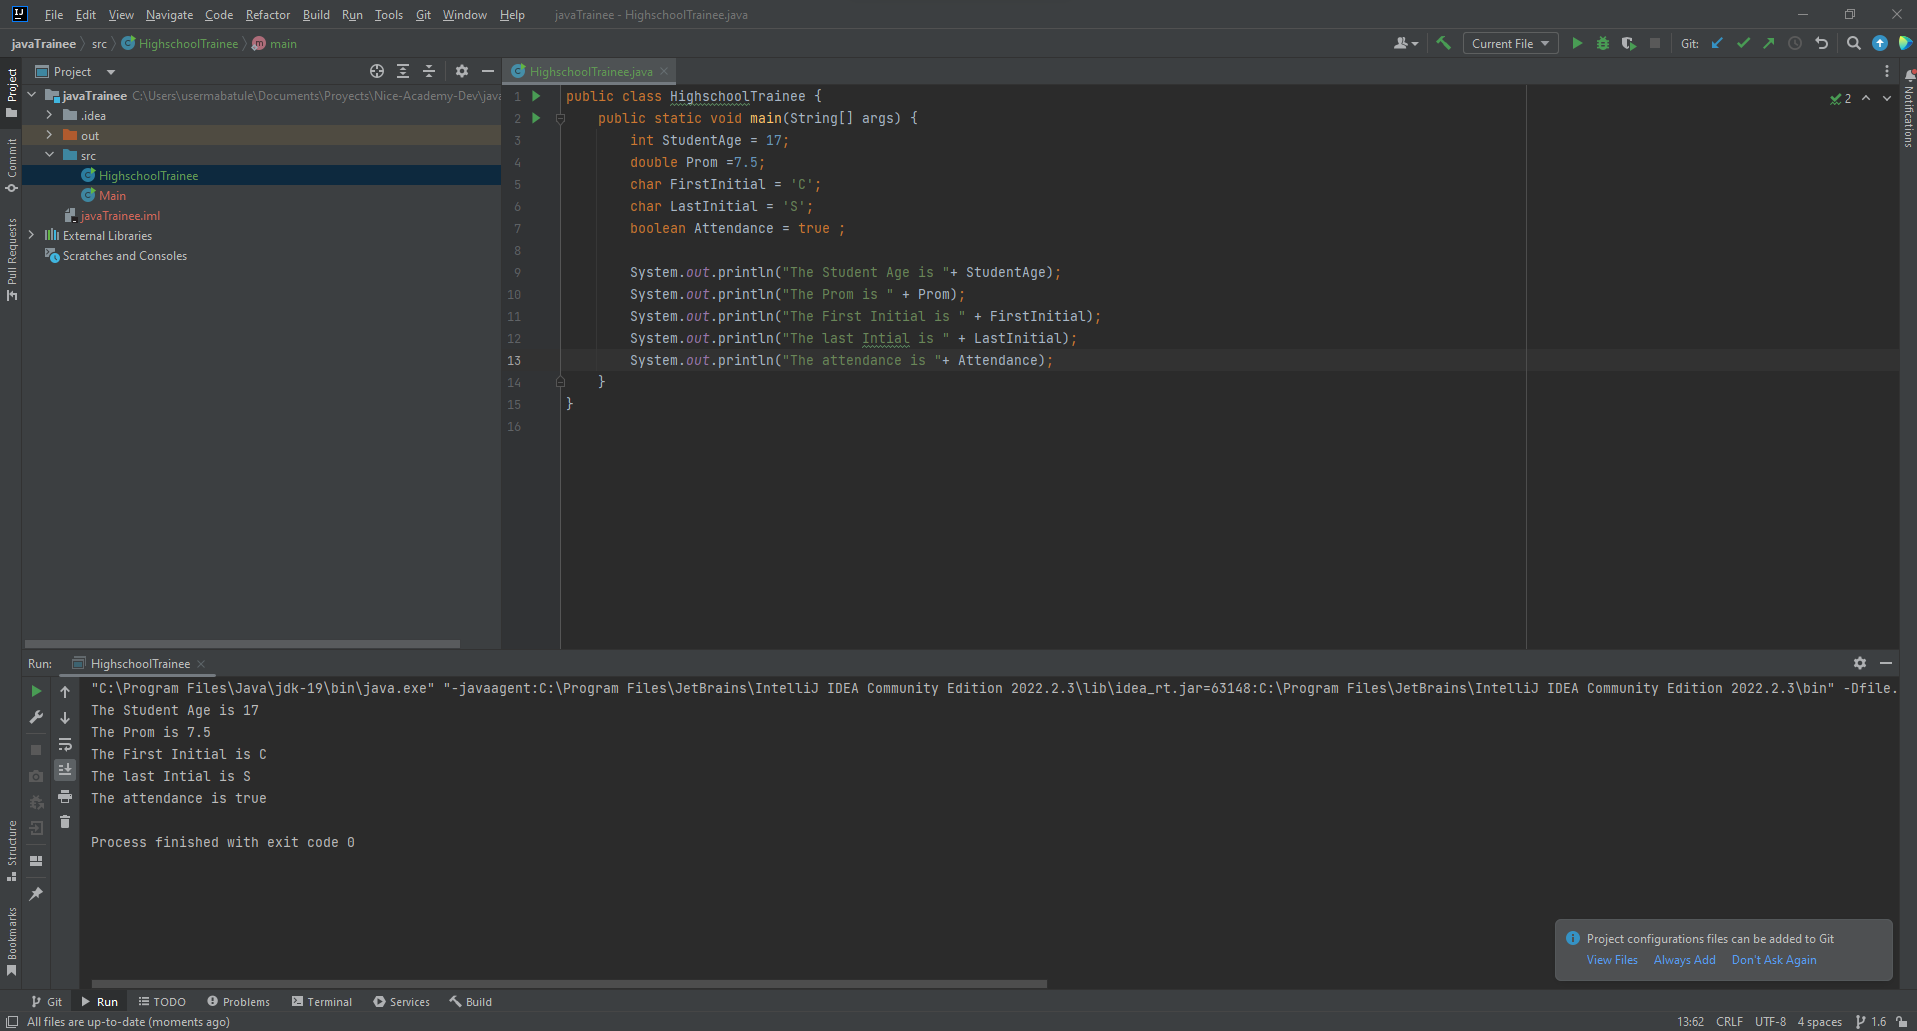
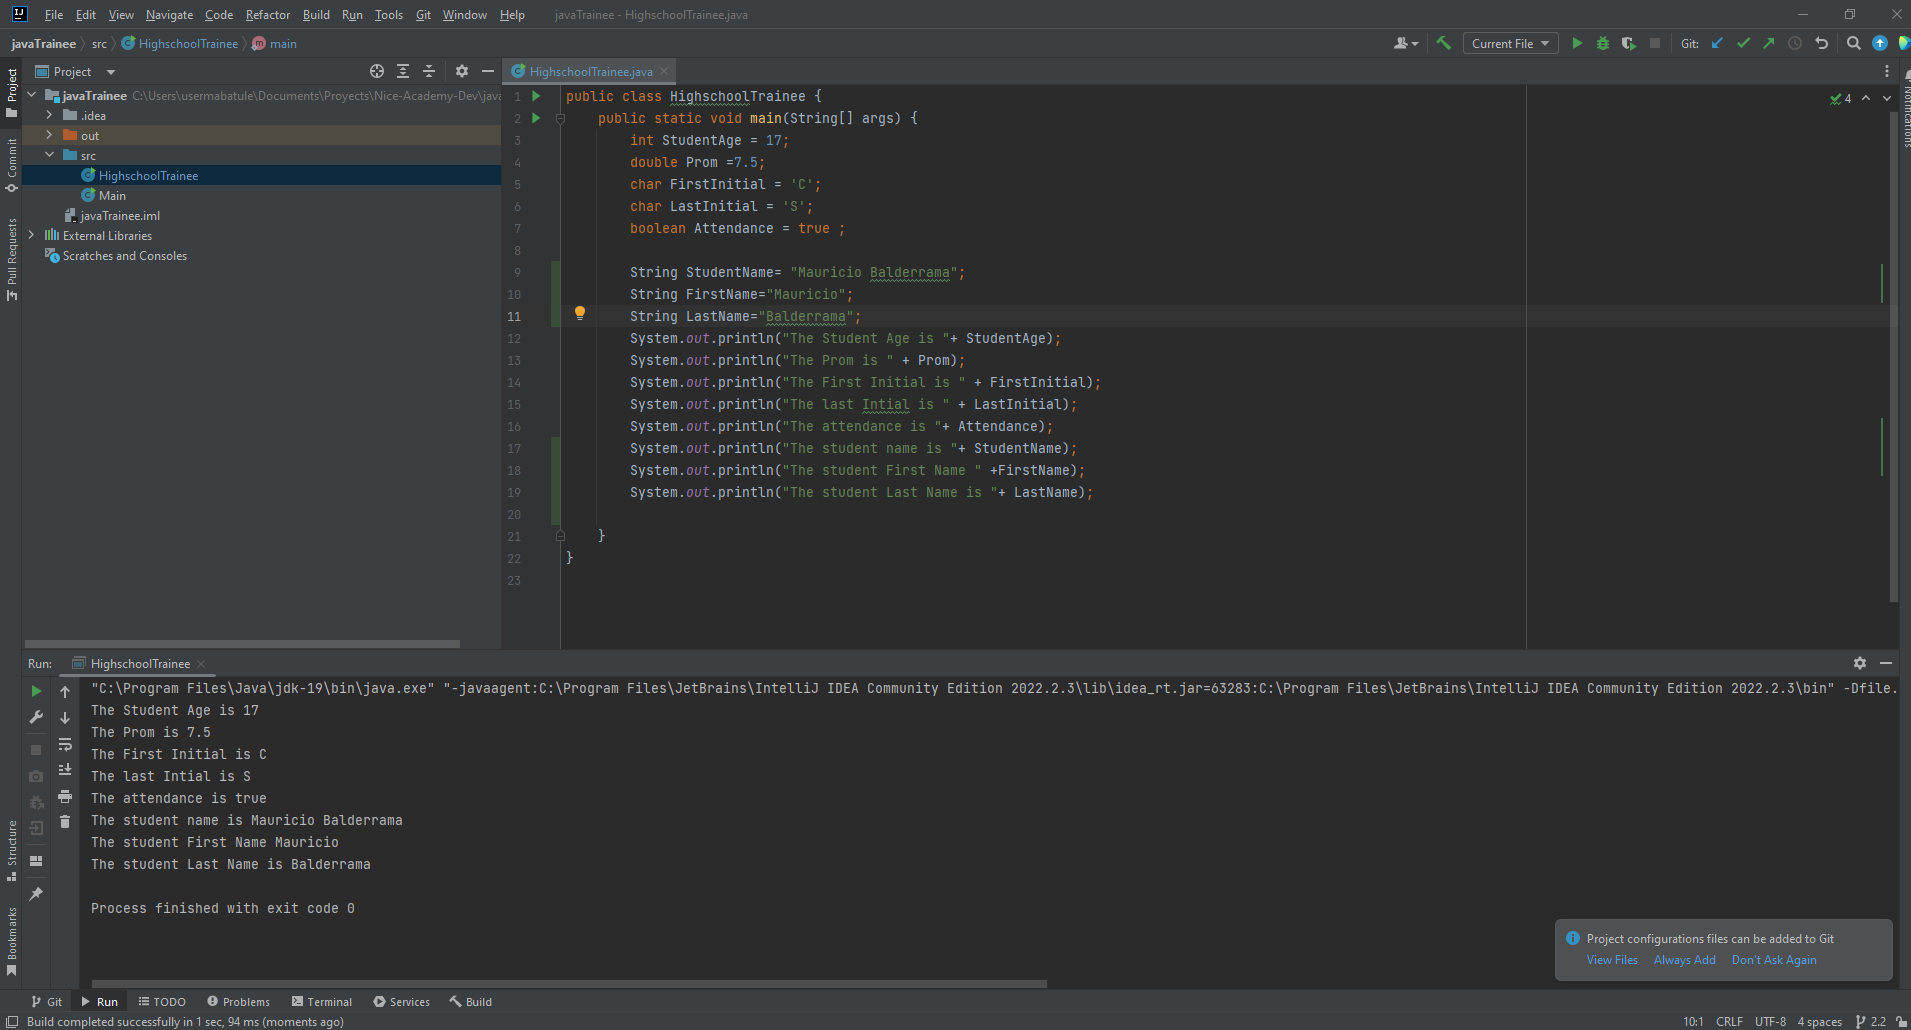
complete exercise 2.3

diff --git a/javaTrainee/src/HighschoolTrainee.java b/javaTrainee/src/HighschoolTrainee.java
@@ -6,10 +6,17 @@ public class HighschoolTrainee {
         char LastInitial = 'S';
         boolean Attendance = true ;
 
+        String StudentName= "Mauricio Balderrama";
+        String FirstName="Mauricio";
+        String LastName="Balderrama";
         System.out.println("The Student Age is "+ StudentAge);
         System.out.println("The Prom is " + Prom);
         System.out.println("The First Initial is " + FirstInitial);
         System.out.println("The last Intial is " + LastInitial);
         System.out.println("The attendance is "+ Attendance);
+        System.out.println("The student name is "+ StudentName);
+        System.out.println("The student First Name " +FirstName);
+        System.out.println("The student Last Name is "+ LastName);
+
     }
 }
